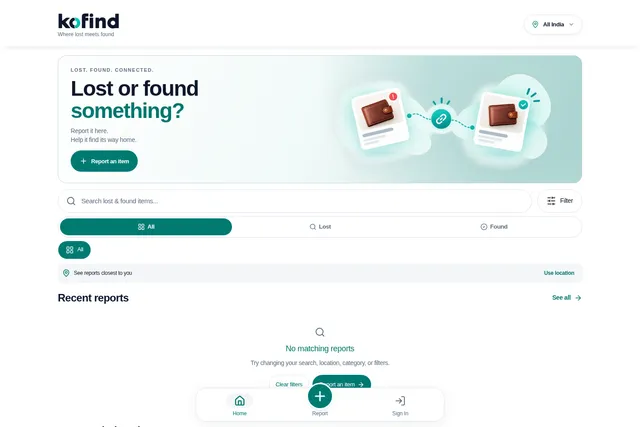
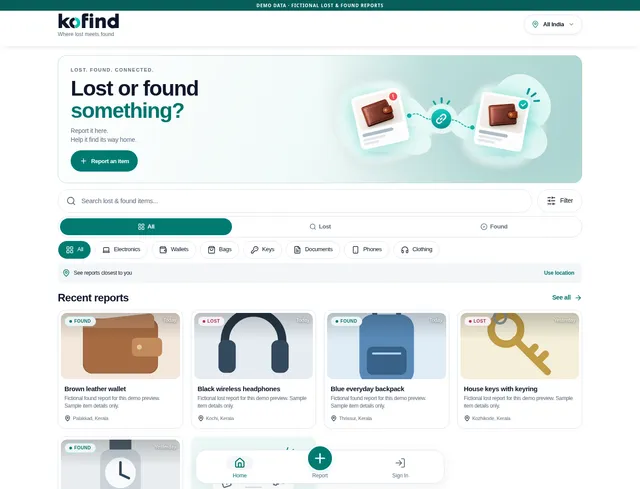
Show KoFund dashboard demo and KoFind sample reports in project previews

diff --git a/src/user/data/projects.js b/src/user/data/projects.js
@@ -5,18 +5,20 @@ export const projects = [
       {
         src: "/assets/projects/kofind-desktop.webp",
         thumbnail: "/assets/projects/kofind-desktop-640.webp",
-        label: "Lost-and-found home · desktop",
-        alt: "Lost-and-found home · desktop captured from the running kofind interface",
+        label: "Recent reports with demo items · desktop",
+        alt: "KoFind homepage showing fictional lost-and-found sample reports",
         width: 1440,
-        height: 960,
+        height: 1100,
+        demo: true,
       },
       {
         src: "/assets/projects/kofind-mobile.webp",
         thumbnail: "/assets/projects/kofind-mobile-640.webp",
-        label: "Lost-and-found home · mobile",
-        alt: "Lost-and-found home · mobile captured from the running kofind interface",
+        label: "Recent reports with demo items · mobile",
+        alt: "KoFind homepage showing fictional lost-and-found sample reports",
         width: 390,
-        height: 844,
+        height: 1100,
+        demo: true,
       },
     ],
     title: "KoFind",
@@ -39,6 +41,15 @@ export const projects = [
   {
     slug: "kofund",
     screenshots: [
+      {
+        src: "/assets/projects/kofund-dashboard-demo.webp",
+        thumbnail: "/assets/projects/kofund-dashboard-demo-640.webp",
+        label: "Community dashboard · demo data",
+        alt: "KoFund dashboard with fictional community figures: 48 members, 48,750 rupees collected, 12,750 rupees expenses, and 36,000 rupees balance",
+        width: 390,
+        height: 1100,
+        demo: true,
+      },
       {
         src: "/assets/projects/kofund-mobile.webp",
         thumbnail: "/assets/projects/kofund-mobile-640.webp",

diff --git a/src/shared/ProjectScreenshots.jsx b/src/shared/ProjectScreenshots.jsx
@@ -27,10 +27,7 @@ export default function ProjectScreenshots({ project }) {
       aria-labelledby="project-screens-heading"
     >
       <h2 id="project-screens-heading">A look inside {project.title}</h2>
-      <p>
-        Captured from the running interface. Select a screen to take a closer
-        look.
-      </p>
+      <p>Explore the interface. Select a screen to take a closer look.</p>
       <div className="project-screen-grid">
         {screens.map((screen, index) => (
           <figure
@@ -56,7 +53,12 @@ export default function ProjectScreenshots({ project }) {
                 <FiMaximize2 />
               </span>
             </button>
-            <figcaption>{screen.label}</figcaption>
+            <figcaption>
+              {screen.label}
+              {screen.demo && (
+                <span className="screen-demo-note">Fictional sample data</span>
+              )}
+            </figcaption>
           </figure>
         ))}
       </div>

diff --git a/src/styles/global.css b/src/styles/global.css
@@ -810,3 +810,25 @@ a:hover {
   grid-column: 1 / -1;
   justify-self: center;
 }
+
+.project-preview {
+  position: relative;
+}
+.preview-demo-label {
+  position: absolute;
+  bottom: 0.5rem;
+  left: 0.5rem;
+  border: 1px solid #ccd4cf;
+  border-radius: 999px;
+  background: #fff;
+  color: #153f37;
+  padding: 0.2rem 0.55rem;
+  font-size: 0.7rem;
+  font-weight: 600;
+}
+.screen-demo-note {
+  display: block;
+  margin-top: 0.25rem;
+  font-size: 0.8rem;
+  color: var(--subtext);
+}

diff --git a/src/shared/ProjectPreview.jsx b/src/shared/ProjectPreview.jsx
@@ -22,6 +22,7 @@ export default function ProjectPreview({ project }) {
         loading="lazy"
         decoding="async"
       />
+      {screen.demo && <span className="preview-demo-label">Demo data</span>}
     </Link>
   );
 }

diff --git a/docs/project-previews.md b/docs/project-previews.md
@@ -4,16 +4,26 @@ These are browser captures of the projects' actual running interfaces, not gener
 
 Captured 31 October 2026:
 
-| Project                 | Source snapshot                                          | Captured view                               |
-| ----------------------- | -------------------------------------------------------- | ------------------------------------------- |
-| KoFind                  | `a36146f7958edd5a4965e820583b679fc35e1ccc`               | Lost-and-found homepage, desktop and mobile |
-| Nike E-commerce Concept | Nike-Redesign `d25fc2b693cc668def4dc78b9d33ebacee19026a` | Storefront homepage, desktop and mobile     |
-| KoFund                  | `cef3bbe158fba1d4de37cdf78cd100e4ba1cad8c`               | Mobile authentication screen                |
+| Project                 | Source snapshot                                          | Captured view                                                 |
+| ----------------------- | -------------------------------------------------------- | ------------------------------------------------------------- |
+| KoFind                  | `a36146f7958edd5a4965e820583b679fc35e1ccc`               | Lost-and-found homepage with demo reports, desktop and mobile |
+| Nike E-commerce Concept | Nike-Redesign `d25fc2b693cc668def4dc78b9d33ebacee19026a` | Storefront homepage, desktop and mobile                       |
+| KoFund                  | `cef3bbe158fba1d4de37cdf78cd100e4ba1cad8c`               | Community dashboard (demo) and mobile authentication          |
 
-KoFind was run with isolated local Supabase configuration and empty responses. Nike's public storefront was run with empty API responses. No account was signed into, no private records were included, and no production data was changed. Development tooling overlays were excluded from the captures.
+KoFind was run with isolated local Supabase configuration. Its refreshed previews use five in-memory fictional lost-and-found reports with generic item illustrations. Nike's public storefront was run with empty API responses. No production account was signed into, no private records were included, and no production data was changed. Development tooling overlays were excluded from the captures.
 
 KoFund was built from the Flutter source using Flutter 3.35.7 / Dart 3.9.2. Case-sensitive import paths were normalized in the local preview copy, and its icon dependency was updated within the existing major version for build compatibility. Layouts and screen copy were not redesigned. These adjustments were not pushed to the source project repositories.
 
 The previews show interface design and public/authentication flows; they are not evidence of user adoption, measured business results, or Nike affiliation. KoFind copy now reflects the actual lost-and-found product, and KoFund's technology list reflects Provider rather than Riverpod.
 
 To refresh these images, run the project sources locally, capture the same views without private records, and generate both a full-size WebP and a 640px thumbnail. Update `src/user/data/projects.js` if the views or dimensions change. Original capture PNGs and app build outputs do not need to be committed to this website.
+
+## Demo-data refresh
+
+KoFund now opens with a community dashboard preview using its actual Flutter dashboard widgets and isolated in-memory provider fixtures. The authentication screenshot is retained as the second screen. The capture uses a dummy Firebase project configuration; production Firestore traffic is blocked. These capture-only fixtures and provider adjustments are not deployed to the KoFund app.
+
+Fictional dashboard figures: 48 members; 39 contributors; ₹48,750 collected; ₹12,750 expenses; ₹36,000 balance; ₹60,000 target. The numbers are sample UI content, not real financial records or evidence of customer outcomes.
+
+KoFind's sample reports are a brown wallet, black headphones, a blue backpack, house keys, and a silver watch. Names, locations, times, and item illustrations are demonstration content only. The captures do not read or write production listings.
+
+The screenshots include a visible demo-data banner, and the website marks demo previews on cards and captions.
